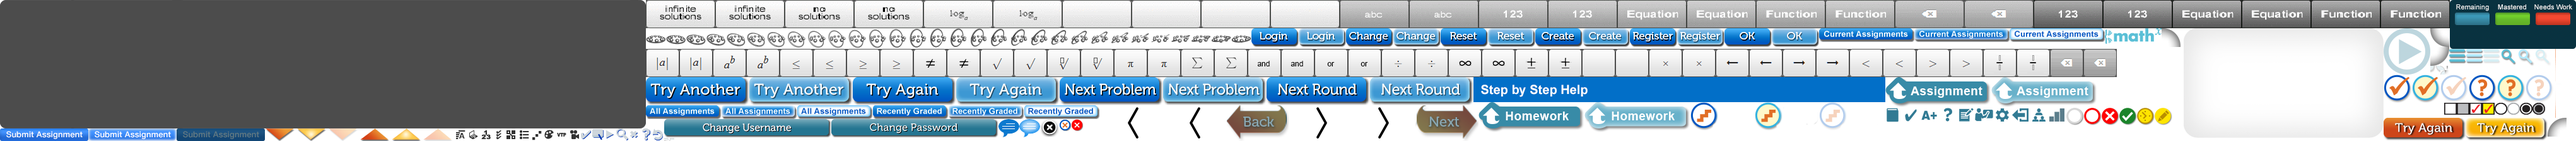
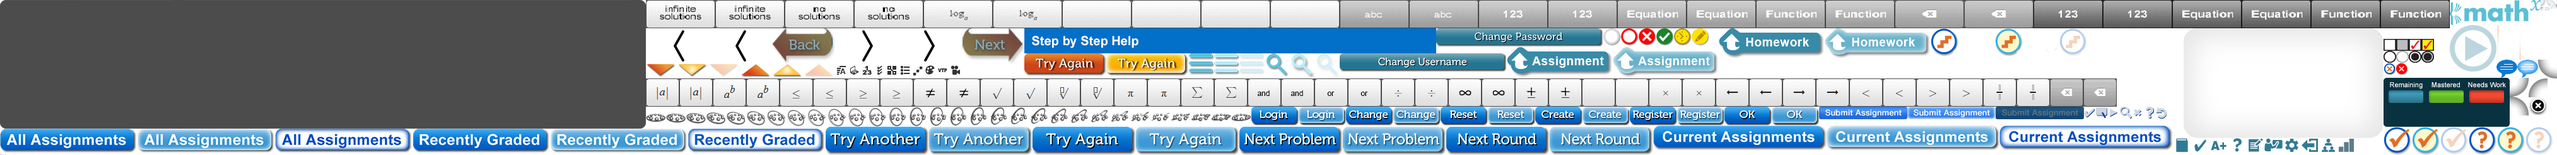
Fix buttons: adjust size for top nav, fix frames for Try Again / Next Problem, etc.

diff --git a/imagesA1/atlas/atlas.js b/imagesA1/atlas/atlas.js
@@ -1,55 +1,55 @@
 (function() {
 app.Resources.manifest = {  
 eqInputBG: { w: 1024, h: 205, x: 0, y: 0 },
-SubmitAssignment: { w: 420, h: 20, x: 0, y: 205, frameData: { frames: 3 } },
-TOCArrows: { w: 300, h: 20, x: 420, y: 205, frameData: { frames: 6, Up: 3, Down: 0 } },
-aTypeIcons: { w: 200, h: 20, x: 720, y: 205, frameData: { frames: 10, graph: 0, equation: 1, freeInput: 2, multChoice: 3, multiPart: 5, paper: 7 } },
-WVHelpIcons: { w: 133, h: 19, x: 920, y: 205, frameData: { frames: 7, StepByStep: 0, Video: 2, Solution: 3, Abort: 4, Hint: 5, TryAnother: 6 } },
+AllRecent: { w: 1309, h: 40, x: 0, y: 205, frameData: { frames: 6, All: 0, AllOn: 2, Recent: 3, RecentOn: 5 } },
+WBShadowTR: { w: 7, h: 2, x: 0, y: 245 },
+WBShadowTL: { w: 3, h: 2, x: 7, y: 245 },
 eqInputDouble: { w: 2860, h: 45, x: 1024, y: 0, frameData: { frames: 26, infAnswers: 0, noAnswers: 2, logBase: 4, more: 6, blank: 8, letters: 10, numbers: 12, equations: 14, functions: 16, backspace: 18, numbers_dn: 20, equations_dn: 22, functions_dn: 24 } },
-DrillOverlay: { w: 200, h: 78, x: 3884, y: 0 },
-eqInputSingle: { w: 2438, h: 45, x: 1024, y: 78, frameData: { frames: 46, abs: 0, power: 2, le: 4, ge: 6, notEqual: 8, sqrt: 10, nthRoot: 12, pi: 14, sigma: 16, and: 18, or: 20, divide: 22, infinity: 24, plusMinus: 26, blank: 28, multiply: 30, left: 32, right: 34, lessthan: 36, greaterthan: 38, fraction: 40, backspace: 42, empty: 44 } },
+Logo: { w: 144, h: 40, x: 3884, y: 0 },
+PDSlicesBR: { w: 9, h: 11, x: 4028, y: 0 },
+PDSlicesBL: { w: 7, h: 11, x: 4037, y: 0 },
+PDSlicesTR2: { w: 9, h: 7, x: 4044, y: 0 },
+PDSlicesTL2: { w: 7, h: 7, x: 4044, y: 7 },
+WBShadowBL: { w: 3, h: 7, x: 4051, y: 7 },
+WBShadowBR: { w: 7, h: 7, x: 4028, y: 11 },
+PDSlicesTR: { w: 9, h: 3, x: 4035, y: 11 },
+PDSlicesTL: { w: 7, h: 3, x: 4035, y: 14 },
+WVPlayVid: { w: 74, h: 74, x: 3884, y: 40 },
+STVertLineB: { w: 35, h: 55, x: 3958, y: 40 },
+STVertLineT: { w: 35, h: 55, x: 3993, y: 40 },
+AssignInfo: { w: 66, h: 29, x: 3958, y: 95, frameData: { frames: 2 } },
+STBorderBL: { w: 30, h: 30, x: 4024, y: 95 },
+eqInputSingle: { w: 2438, h: 45, x: 1024, y: 125, frameData: { frames: 46, abs: 0, power: 2, le: 4, ge: 6, notEqual: 8, sqrt: 10, nthRoot: 12, pi: 14, sigma: 16, and: 18, or: 20, divide: 22, infinity: 24, plusMinus: 26, blank: 28, multiply: 30, left: 32, right: 34, lessthan: 36, greaterthan: 38, fraction: 40, backspace: 42, empty: 44 } },
 SUMBlankCard: { w: 317, h: 175, x: 3462, y: 45 },
-WVPlayVid: { w: 74, h: 74, x: 3779, y: 45 },
-STBorderBL: { w: 30, h: 30, x: 3853, y: 45 },
-STBorderBR: { w: 30, h: 30, x: 3853, y: 75 },
-PDSlicesTR: { w: 9, h: 3, x: 1053, y: 220 },
-WBShadowTR: { w: 7, h: 2, x: 1053, y: 223 },
-WBShadowTL: { w: 3, h: 2, x: 1060, y: 223 },
-PDSlicesTL: { w: 7, h: 3, x: 1062, y: 220 },
-WVIcons: { w: 270, h: 45, x: 3779, y: 119, frameData: { frames: 6, Menu: 3, Check: 0 } },
-PDSlicesBR: { w: 9, h: 11, x: 3853, y: 105 },
-PDSlicesBL: { w: 7, h: 11, x: 3862, y: 105 },
-PDSlicesTR2: { w: 9, h: 7, x: 3869, y: 105 },
-PDSlicesTL2: { w: 7, h: 7, x: 3869, y: 112 },
-WBShadowBR: { w: 7, h: 7, x: 3876, y: 112 },
-WBShadowBL: { w: 3, h: 7, x: 3878, y: 105 },
-STVertLineB: { w: 35, h: 55, x: 4049, y: 78 },
-STVertLineT: { w: 35, h: 55, x: 4049, y: 133 },
-TryAgain: { w: 260, h: 37, x: 3779, y: 188, frameData: { frames: 2 } },
-STBorderTL: { w: 30, h: 30, x: 4039, y: 188 },
-NavIcons: { w: 162, h: 27, x: 3883, y: 78, frameData: { frames: 6, Menu: 0, Search: 3 } },
-WVStepArrows: { w: 96, h: 17, x: 3779, y: 164, frameData: { frames: 6, Down: 3, Up: 0 } },
-WVCheck: { w: 80, h: 19, x: 3875, y: 164, frameData: { frames: 4, Off: 0, On: 2 } },
-WVRadio: { w: 80, h: 19, x: 3955, y: 164, frameData: { frames: 4, Off: 0, On: 2 } },
-loading: { w: 960, h: 32, x: 1024, y: 45, frameData: { frames: 30 } },
-LoginBtn: { w: 900, h: 30, x: 1984, y: 45, frameData: { frames: 12, Login: 0, Change: 2, Reset: 4, Create: 6, Register: 8, OK: 10 } },
-CurrentAssignments: { w: 453, h: 22, x: 2884, y: 45, frameData: { frames: 3, Current: 0, CurrentOn: 2 } },
-Logo: { w: 90, h: 25, x: 3337, y: 45 },
-STBorderTR: { w: 30, h: 30, x: 3427, y: 45 },
-WVMoveOn: { w: 1312, h: 45, x: 1024, y: 123, frameData: { frames: 10, TryAnother: 0, TryAgain: 2, NextProblem: 4, NextRound: 6, Done: 8 } },
-AllRecent: { w: 720, h: 22, x: 1024, y: 168, frameData: { frames: 6, All: 0, AllOn: 2, Recent: 3, RecentOn: 5 } },
-STIcons: { w: 600, h: 57, x: 1744, y: 168, frameData: { frames: 6, Back: 0, Next: 3 } },
-PrefsEmail: { w: 265, h: 30, x: 1053, y: 190 },
-PrefsPassword: { w: 265, h: 30, x: 1318, y: 190 },
-AssignInfo: { w: 66, h: 29, x: 1583, y: 190, frameData: { frames: 2 } },
-VideoExit: { w: 30, h: 29, x: 1649, y: 190 },
-WVRemove: { w: 38, h: 19, x: 1679, y: 190, frameData: { frames: 2 } },
-WVStepHeader: { w: 653, h: 40, x: 2336, y: 123 },
-AssignUp: { w: 336, h: 49, x: 2989, y: 123, frameData: { frames: 2 } },
-HomeworkUp: { w: 336, h: 49, x: 2344, y: 163, frameData: { frames: 2 } },
-WVStepIcon: { w: 306, h: 45, x: 2680, y: 163, frameData: { frames: 3, Step: 0 } },
-MenuIcons: { w: 290, h: 23, x: 2986, y: 172, frameData: { frames: 10, TOC: 0, Factbook: 1, Grades: 2, Help: 3, Homework: 4, LPTOC: 5, Settings: 6, Logout: 7, Admin: 8, Graph: 9 } },
-WVStatus: { w: 168, h: 28, x: 3276, y: 172, frameData: { frames: 6, New: 0, Wrong: 1, Locked: 2, Correct: 3, Pending: 4, Partial: 5 } },
+DrillOverlay: { w: 200, h: 78, x: 3779, y: 124 },
+WVIcons: { w: 270, h: 45, x: 3779, y: 202, frameData: { frames: 6, Menu: 3, Check: 0 } },
+STBorderBR: { w: 30, h: 30, x: 3979, y: 124 },
+STBorderTL: { w: 30, h: 30, x: 4009, y: 125 },
+STBorderTR: { w: 30, h: 30, x: 3979, y: 154 },
+VideoExit: { w: 30, h: 29, x: 4009, y: 155 },
+WVStepArrows: { w: 96, h: 17, x: 3779, y: 45, frameData: { frames: 6, Down: 3, Up: 0 } },
+WVCheck: { w: 80, h: 19, x: 3779, y: 62, frameData: { frames: 4, Off: 0, On: 2 } },
+WVRadio: { w: 80, h: 19, x: 3779, y: 81, frameData: { frames: 4, Off: 0, On: 2 } },
+WVRemove: { w: 38, h: 19, x: 3779, y: 100, frameData: { frames: 2 } },
+loading: { w: 960, h: 32, x: 1024, y: 170, frameData: { frames: 30 } },
+WVMoveOn: { w: 1312, h: 45, x: 1309, y: 202, frameData: { frames: 8, TryAnother: 0, TryAgain: 2, NextProblem: 4, NextRound: 6 } },
+LoginBtn: { w: 900, h: 30, x: 1984, y: 170, frameData: { frames: 12, Login: 0, Change: 2, Reset: 4, Create: 6, Register: 8, OK: 10 } },
+CurrentAssignments: { w: 824, h: 40, x: 2621, y: 200, frameData: { frames: 3, Current: 0, CurrentOn: 2 } },
+MenuIcons: { w: 290, h: 23, x: 3445, y: 220, frameData: { frames: 10, TOC: 0, Factbook: 1, Grades: 2, Help: 3, Homework: 4, LPTOC: 5, Settings: 6, Logout: 7, Admin: 8, Graph: 9 } },
+SubmitAssignment: { w: 420, h: 20, x: 2884, y: 170, frameData: { frames: 3 } },
+WVHelpIcons: { w: 133, h: 19, x: 3304, y: 170, frameData: { frames: 7, StepByStep: 0, Video: 2, Solution: 3, Abort: 4, Hint: 5, TryAnother: 6 } },
+STIcons: { w: 600, h: 57, x: 1024, y: 45, frameData: { frames: 6, Back: 0, Next: 3 } },
+TOCArrows: { w: 300, h: 20, x: 1024, y: 102, frameData: { frames: 6, Up: 3, Down: 0 } },
+aTypeIcons: { w: 200, h: 20, x: 1324, y: 102, frameData: { frames: 10, graph: 0, equation: 1, freeInput: 2, multChoice: 3, multiPart: 5, paper: 7 } },
+WVStepHeader: { w: 653, h: 40, x: 1624, y: 45 },
+TryAgain: { w: 260, h: 37, x: 1624, y: 85, frameData: { frames: 2 } },
+NavIcons: { w: 240, h: 40, x: 1884, y: 85, frameData: { frames: 6, Menu: 0, Search: 3 } },
+PrefsEmail: { w: 265, h: 30, x: 2124, y: 85 },
+PrefsPassword: { w: 265, h: 30, x: 2277, y: 45 },
+AssignUp: { w: 336, h: 49, x: 2389, y: 75, frameData: { frames: 2 } },
+WVStatus: { w: 168, h: 28, x: 2542, y: 45, frameData: { frames: 6, New: 0, Wrong: 1, Locked: 2, Correct: 3, Pending: 4, Partial: 5 } },
+HomeworkUp: { w: 336, h: 49, x: 2725, y: 45, frameData: { frames: 2 } },
+WVStepIcon: { w: 306, h: 45, x: 3061, y: 45, frameData: { frames: 3, Step: 0 } },
     ie: null
 };
 })();

diff --git a/scripts/A1PARCC/LayoutList.js b/scripts/A1PARCC/LayoutList.js
@@ -87,7 +87,7 @@
 				dock: 'stage',
 				my: 'top left',
 				at: 'top left',
-				ofs: '42 10'
+				ofs: '65 10'
 			},
 
 			navSlider: {
@@ -678,7 +678,7 @@
 
 			prefs: {
 				dock: {
-					top: 'stage top 48',
+					top: 'stage top 72',
 					bottom: 'stage bottom -32',
 					left: 'stage left 29',
 					right: 'stage right -29'
@@ -735,7 +735,7 @@
 
 			backdrop: {
 				dock: {
-					top: 'stage top 48',
+					top: 'stage top 72',
 					bottom: 'stage bottom -32',
 					left: 'stage left 0',
 					right: 'stage right 0'
@@ -744,7 +744,7 @@
 
 			assignmentList: {
 				dock: {
-					top: 'backdrop top 23',
+					top: 'backdrop top 0',
 					bottom: 'backdrop bottom -25',
 					left: 'backdrop left 0',
 					right: 'backdrop right 0'
@@ -1111,7 +1111,7 @@
 
 			backdrop: {
 				dock: {
-					top: 'stage top 48',
+					top: 'stage top 72',
 					bottom: 'stage bottom -32',
 					left: 'stage left 30',
 					right: 'stage right -30'

diff --git a/scripts/A1PARCC/Game.js b/scripts/A1PARCC/Game.js
@@ -501,6 +501,9 @@ console.log('orientationNotice', window.orientation);
 			at: 'top left'
 		});
 	}
+	if (window.orientation === undefined) {
+		wid.close();
+	}
 	if (Math.abs(window.orientation) === 90) {
 		wid.close();
 	}
